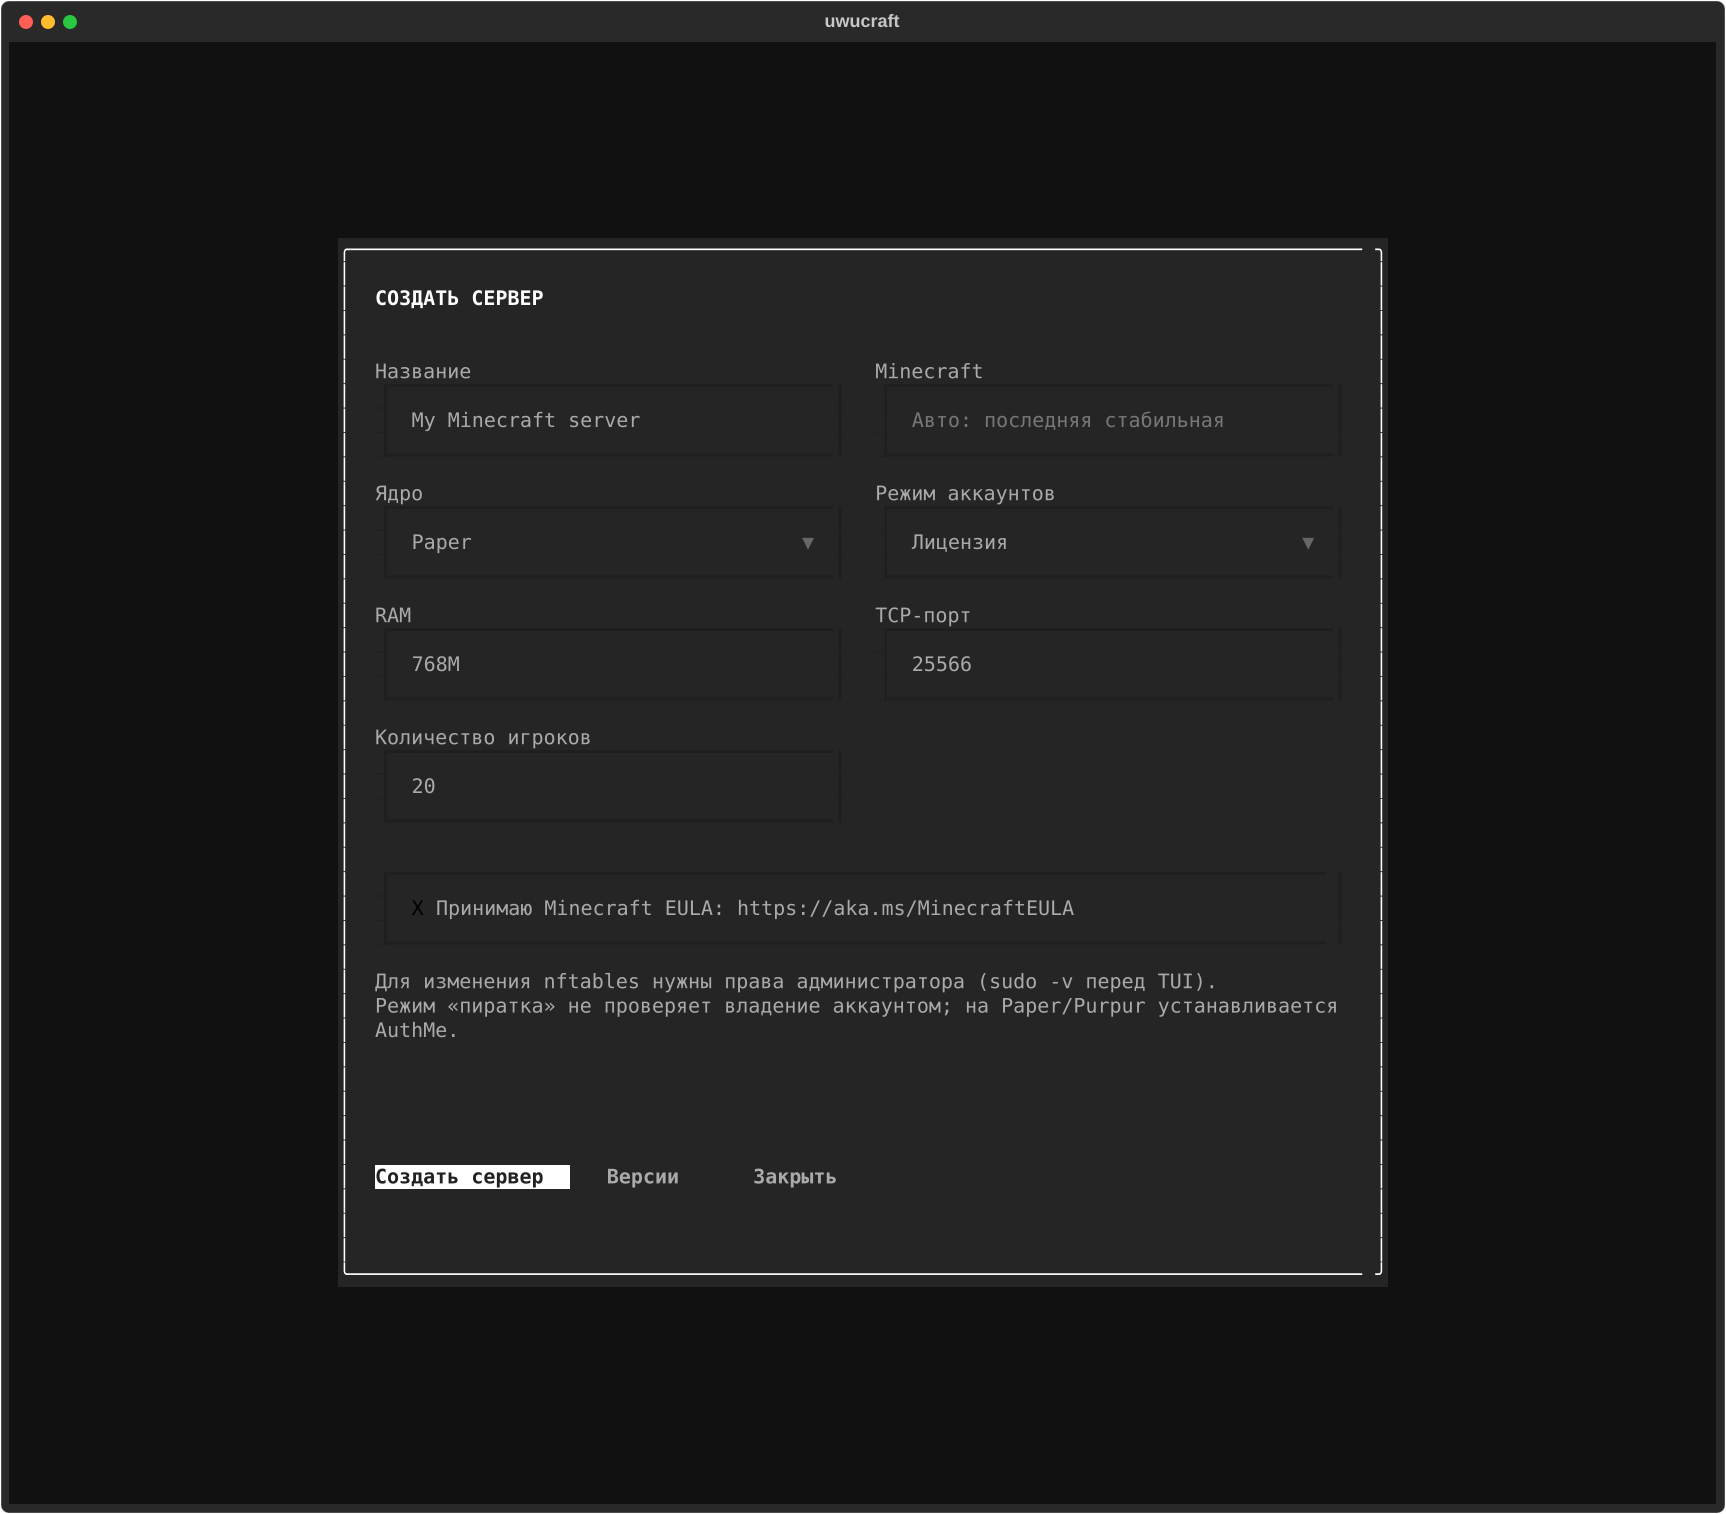
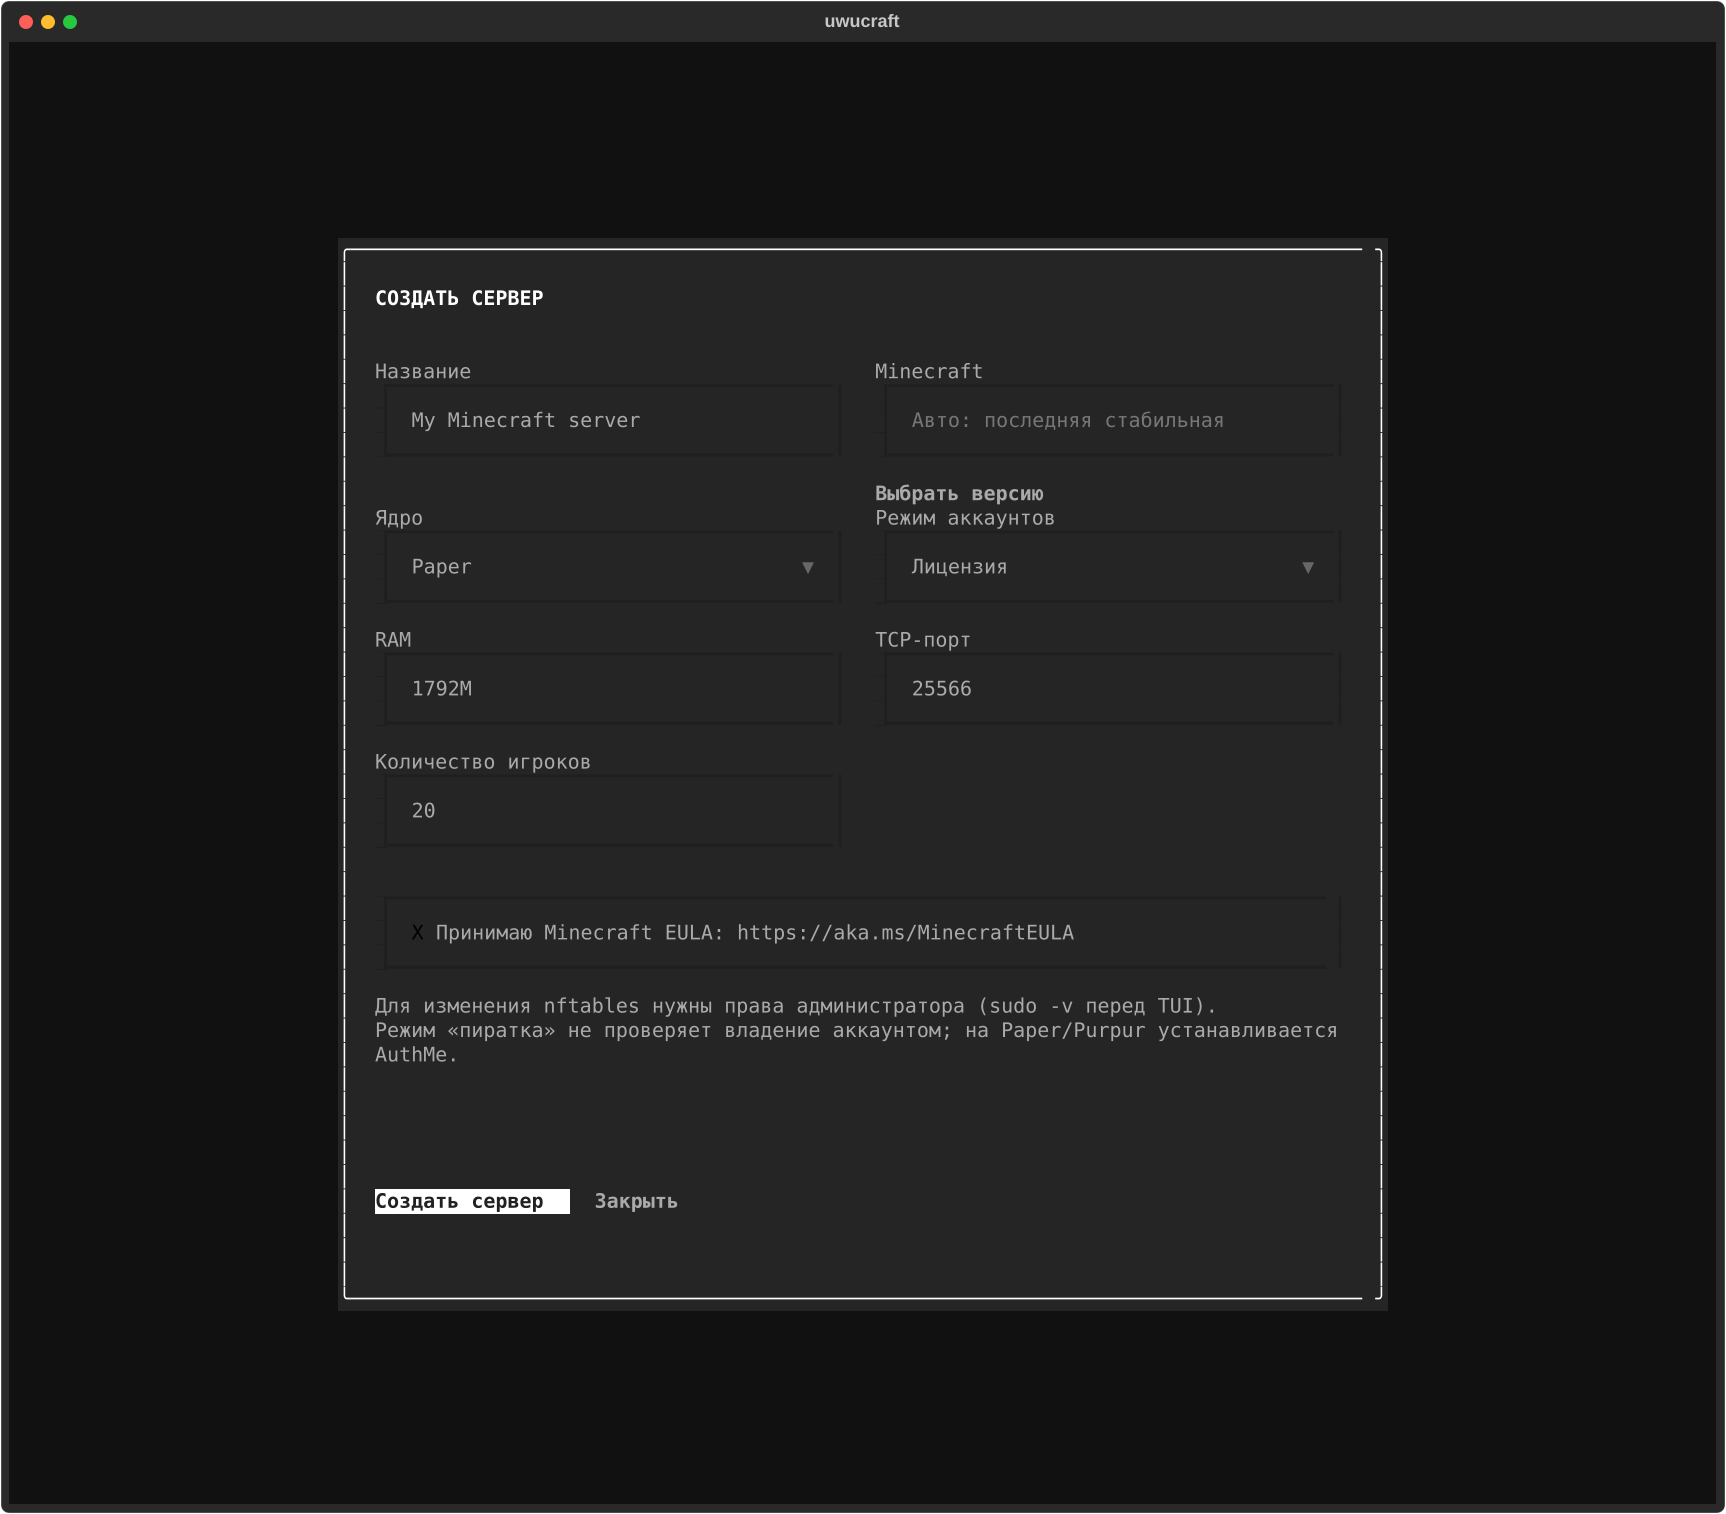
Refresh wizard screenshot and exercise bundled Python payload in Windows CI

diff --git a/docs/VALIDATION.md b/docs/VALIDATION.md
@@ -40,6 +40,6 @@ HTTPS-сервис сообщил глобальный IPv4, но это не д
 
 ## Профили и Python bootstrap 0.4.0
 
-Добавлены проверки изоляции файлов/консолей/units, глобального CLI --profile без утечки между вызовами, миграции старых units без рестарта, сохранности остальных профилей после backup/restore default, официального каталога и TUI выбора профиля/версии. Via plugins загружаются вместе до замены, ошибка загрузки оставляет прежние JAR. Windows native test запускает два реальных JVM fixture одновременно и останавливает один, проверяя работоспособность другого. Настоящий Paper также проверяется в именованном профиле.
+Добавлены проверки изоляции файлов/консолей/units, глобального CLI --profile без утечки между вызовами, миграции старых units без рестарта, сохранности остальных профилей после backup/restore default, официального каталога и TUI выбора профиля/версии. Via plugins загружаются вместе до замены, ошибка загрузки оставляет прежние JAR. Windows native test запускает два реальных JVM fixture одновременно и останавливает один, проверяя работоспособность другого. Настоящий Paper также проверяется в именованном профиле: установка ViaVersion/ViaBackwards/ViaRewind, повторный запуск и строки Enabling для всех трёх плагинов.
 
-Windows CI отдельно вызывает install.ps1 -BootstrapPython, даже когда системный Python присутствует: скачивает pinned официальный installer, проверяет SHA-256 и Authenticode PSF и устанавливает отдельный Python без winget. Release packaging вкладывает те же байты в vendor/python-installer.exe внутри Windows ZIP; бинарник не хранится в Git и не попадает в wheel. Проверка всех игровых клиентов, всех исторических модовых ядер и всех версий Via не подменяется fixture или списком опубликованных API версий.
+Windows CI отдельно вызывает install.ps1 -BootstrapPython, даже когда системный Python присутствует: использует вложенный pinned официальный installer (отдельно проверен и путь скачивания при отсутствии payload), проверяет SHA-256 и Authenticode PSF и устанавливает отдельный Python без winget. Release packaging вкладывает те же байты в vendor/python-installer.exe внутри Windows ZIP; бинарник не хранится в Git и не попадает в wheel. Проверка всех игровых клиентов, всех исторических модовых ядер и всех версий Via не подменяется fixture или списком опубликованных API версий.
